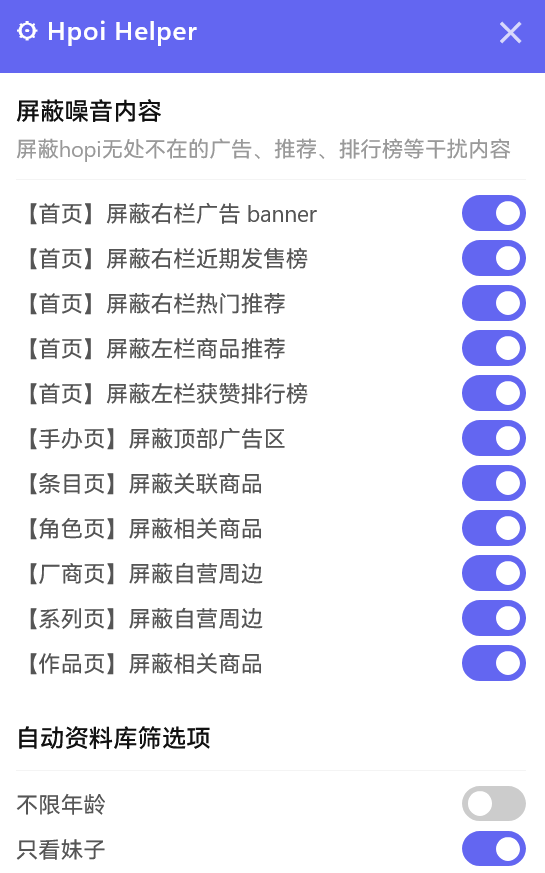
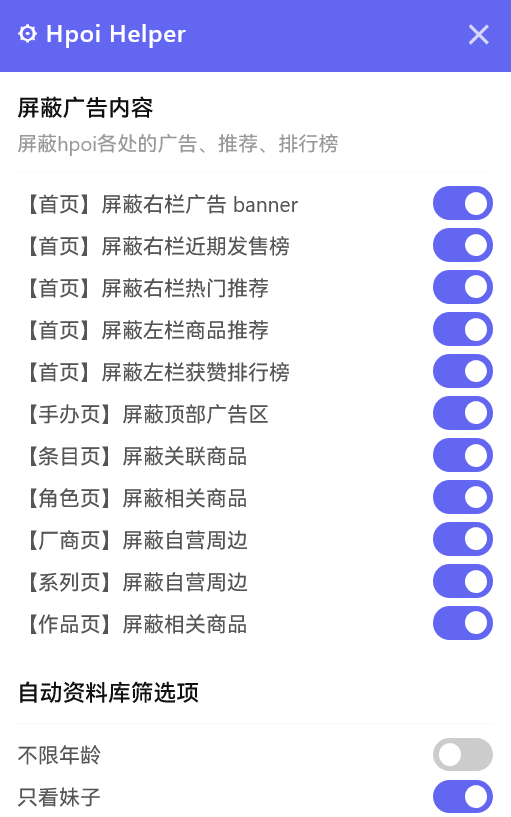
Update README.md and GUI text

diff --git a/dist/hpoi-helper.user.js b/dist/hpoi-helper.user.js
@@ -314,8 +314,8 @@ function createDomHider(finder) {
 	var cleanups$1 = [];
 	var component$1 = defineComponent({
 		name: "blockNoise",
-		displayName: "屏蔽噪音内容",
-		description: "屏蔽hopi无处不在的广告、推荐、排行榜等干扰内容",
+		displayName: "屏蔽广告内容",
+		description: "屏蔽hpoi各处的广告、推荐、排行榜",
 		tags: [componentTags.display],
 		enabledByDefault: true,
 		alwaysOn: true,

diff --git a/src/features/block-noise/index.ts b/src/features/block-noise/index.ts
@@ -235,8 +235,8 @@ let cleanups: Array<() => void> = []
 
 export const component = defineComponent({
   name: 'blockNoise',
-  displayName: '屏蔽噪音内容',
-  description: '屏蔽hopi无处不在的广告、推荐、排行榜等干扰内容',
+  displayName: '屏蔽广告内容',
+  description: '屏蔽hpoi各处的广告、推荐、排行榜',
   tags: [componentTags.display],
   enabledByDefault: true,
   alwaysOn: true,

diff --git a/CLAUDE.md b/CLAUDE.md
@@ -65,7 +65,7 @@ src/
 
 **File:** `src/features/block-noise/index.ts`  |  **Pages:** `/user/home`, `/hobby/*`, `/charactar/*`, `/company/*`, `/series/*`, `/works/*`  |  `alwaysOn: true`
 
-> 屏蔽hopi无处不在的广告、推荐、排行榜等干扰内容。
+> 屏蔽hpoi各处的广告、推荐、排行榜等内容。
 
 Eleven boolean options (all default `false`). CSS injection for eight (`blockRightAdBanner`, `blockRightRanking`, `blockRightHotRecommend`, `blockLeftPraiseRanking`, `blockHobbyTopBanner`, `blockCompanyOfficialMerch`, `blockSeriesOfficialMerch`, `blockWorksRelatedProducts`). DOM-based hiding via `createDomHider` for three:
 - `blockLeftShopRecommend` — locates `#taobao-more` → `.hpoi-home-box-lt` (CSS `:has()` can't distinguish it from `待补款`)

diff --git a/README.md b/README.md
@@ -14,7 +14,7 @@ git clone <repo-url> && cd hpoi-helper
 pnpm install && pnpm build
 ```
 
-构建产物位于 `dist/hpoi-helper.user.js`，在 Tampermonkey 管理面板中选择「从文件安装」导入。
+构建产物位于 `dist/hpoi-helper.user.js`，在 Tampermonkey 管理面板中选择「实用工具」->「导入」。
 
 ## 使用
 
@@ -28,7 +28,7 @@ pnpm install && pnpm build
 
 ### 屏蔽噪音内容
 
-屏蔽hopi无处不在的广告、推荐、排行榜等干扰内容。详见选项名称。
+屏蔽hpoi各处的广告、推荐、排行榜等内容。详见选项名称。
 
 > 当首页右栏三项全部开启时，中间信息流自动扩展至 75% 宽度。
 
